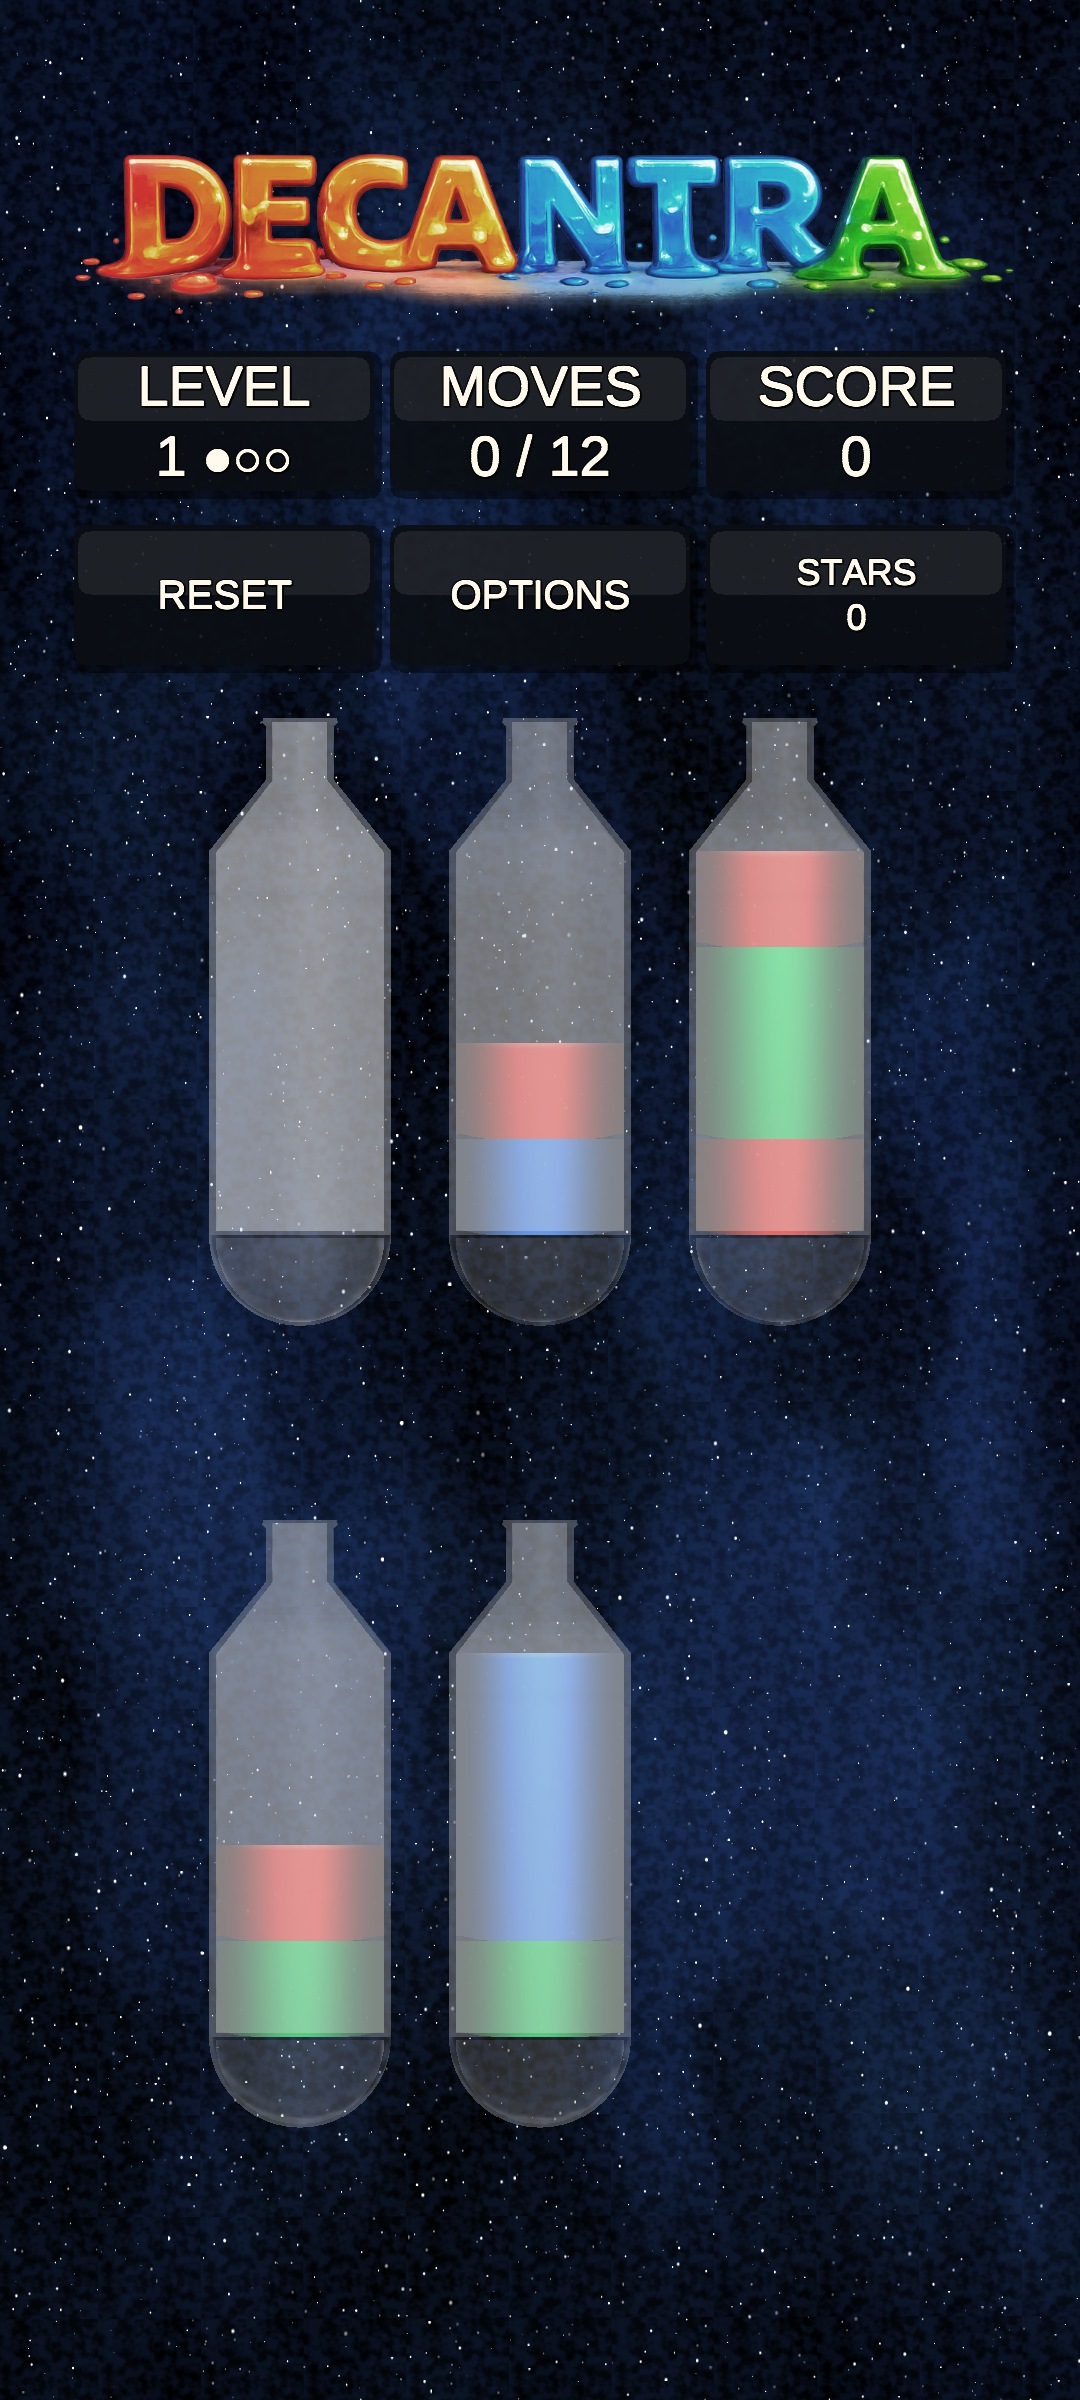
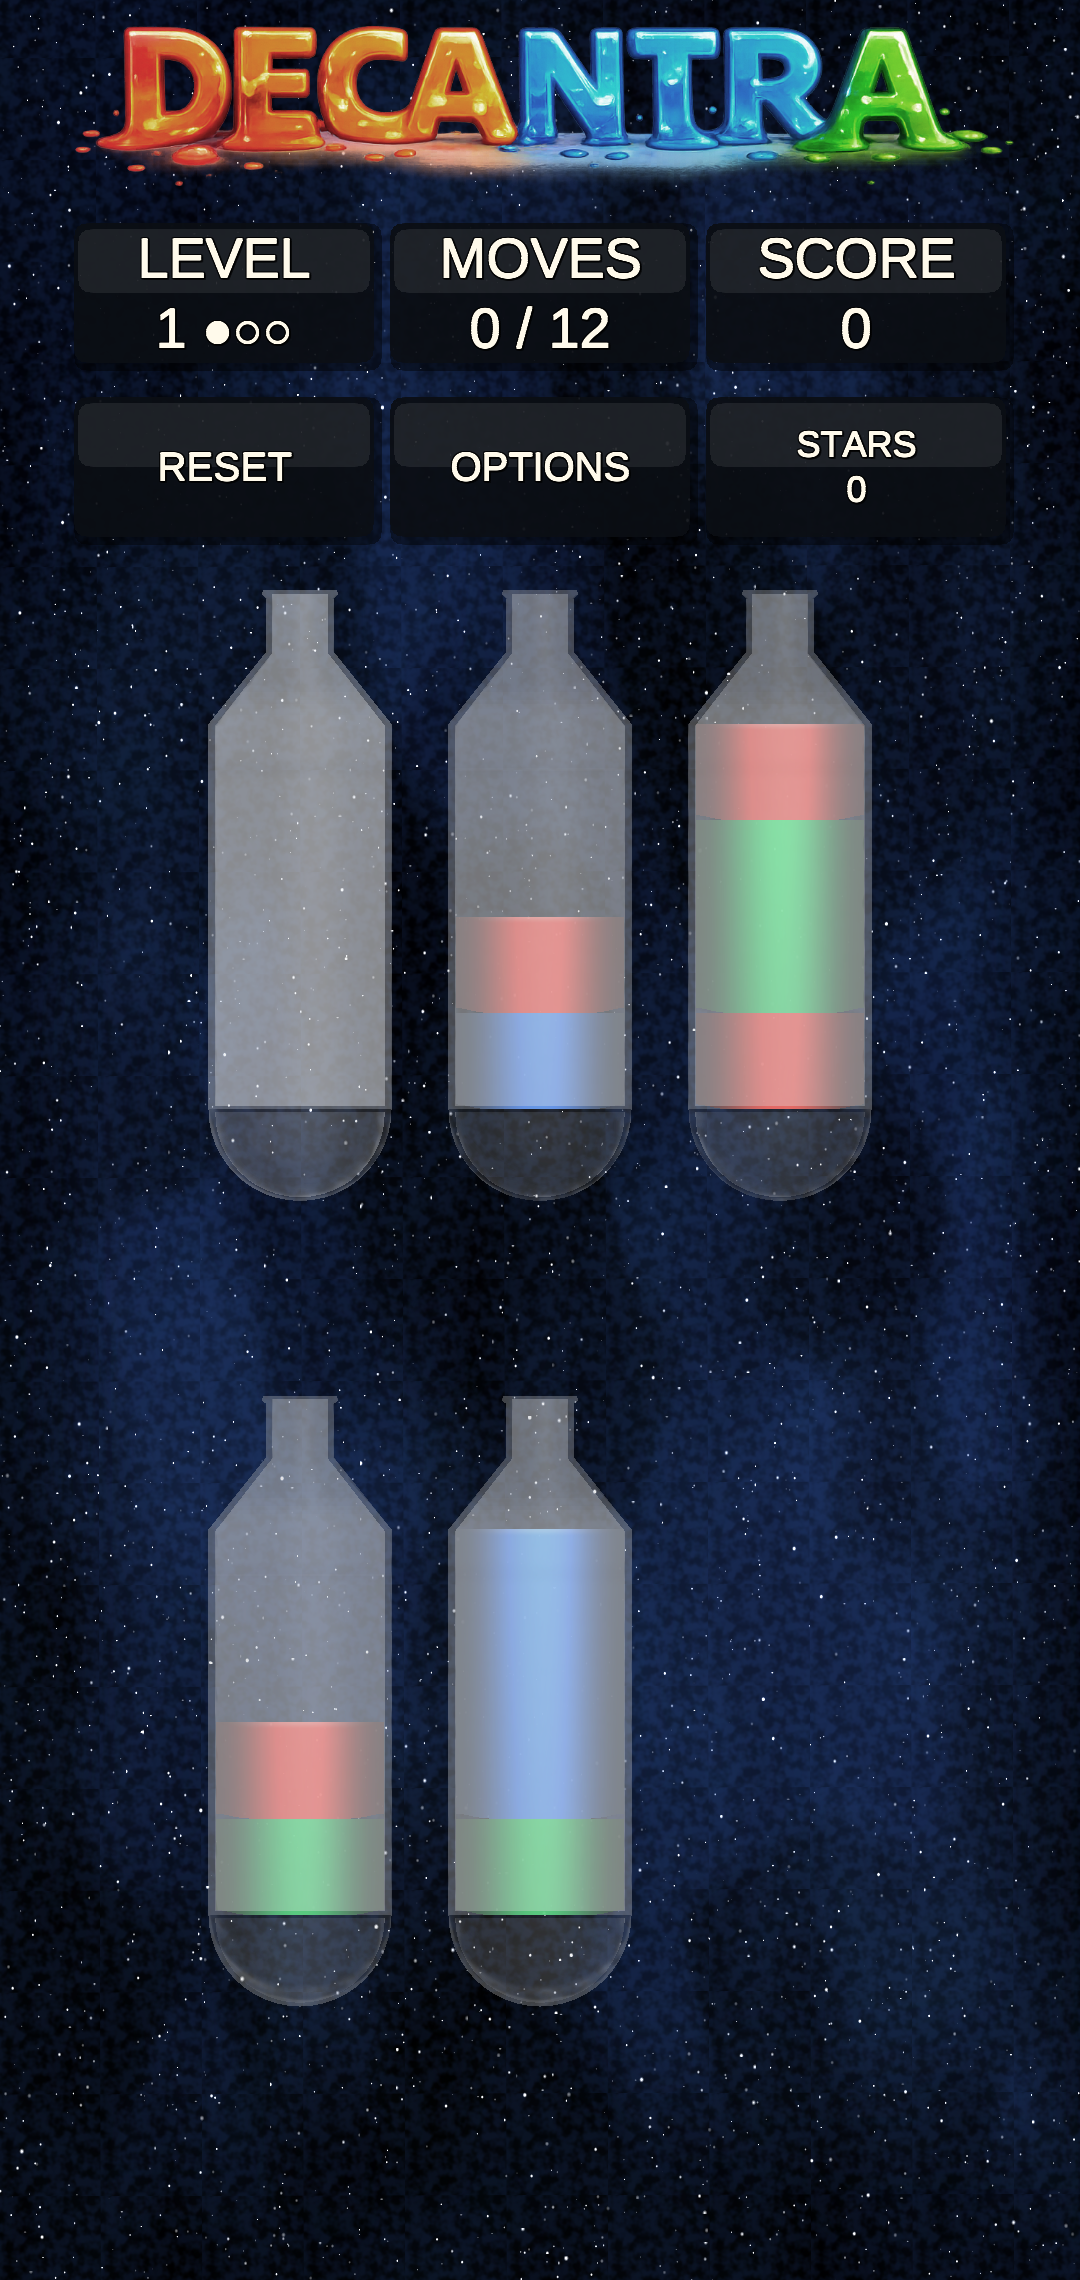
Compact three-row bottle layout

diff --git a/Assets/Decantra/Tests/PlayMode/AndroidLayoutInvariancePlayModeTests.cs b/Assets/Decantra/Tests/PlayMode/AndroidLayoutInvariancePlayModeTests.cs
@@ -150,20 +150,21 @@ namespace Decantra.Tests.PlayMode
             var baseGridSpacing = GetPrivateField<Vector2>(hudSafeLayout, "_baseGridSpacing");
             var baseGridPadding = GetPrivateField<RectOffset>(hudSafeLayout, "_baseGridPadding");
             var baseCellSize = GetPrivateField<Vector2>(hudSafeLayout, "_baseGridCellSize");
-            const float minimumEdgeGapPx = 24f;
+            const float minimumInnerGapPx = 10f;
 
-            Assert.GreaterOrEqual(bottleGridLayout.cellSize.y, baseCellSize.y - 1f,
-                $"3-row cell height shrank below the baseline cell size. baseline={baseCellSize.y:F2}, actual={bottleGridLayout.cellSize.y:F2}");
-            Assert.GreaterOrEqual(bottleGridLayout.spacing.y, minimumEdgeGapPx - 1f,
-                $"3-row spacing fell below the minimum edge gap. actual={bottleGridLayout.spacing.y:F2}");
-            Assert.LessOrEqual(bottleGridLayout.spacing.y, baseGridSpacing.y + 1f,
-                $"3-row spacing exceeded the baseline grid spacing. baseline={baseGridSpacing.y:F2}, actual={bottleGridLayout.spacing.y:F2}");
+            Assert.GreaterOrEqual(bottleGridLayout.cellSize.y, baseCellSize.y + 4f,
+                $"3-row cell height did not grow enough. baseline={baseCellSize.y:F2}, actual={bottleGridLayout.cellSize.y:F2}");
+            Assert.GreaterOrEqual(bottleGridLayout.spacing.y, minimumInnerGapPx - 1f,
+                $"3-row spacing fell below the minimum inner gap. actual={bottleGridLayout.spacing.y:F2}");
+            float requiredSpacingReduction = baseGridSpacing.y > minimumInnerGapPx + 8f ? 8f : 0f;
+            Assert.LessOrEqual(bottleGridLayout.spacing.y, baseGridSpacing.y - requiredSpacingReduction + 1f,
+                $"3-row spacing did not compact enough. baseline={baseGridSpacing.y:F2}, actual={bottleGridLayout.spacing.y:F2}, requiredReduction={requiredSpacingReduction:F2}");
             Assert.GreaterOrEqual(bottleGridLayout.padding.top, bottleGridLayout.padding.bottom,
                 $"3-row top padding should be at least as large as bottom padding. top={bottleGridLayout.padding.top}, bottom={bottleGridLayout.padding.bottom}");
             Assert.GreaterOrEqual(bottleGridLayout.padding.top, baseGridPadding.top,
                 $"3-row top padding should preserve or increase HUD clearance. baseline={baseGridPadding.top}, actual={bottleGridLayout.padding.top}");
-            Assert.LessOrEqual(bottleGridLayout.padding.bottom, baseGridPadding.bottom,
-                $"3-row bottom padding should not expand past the baseline gap. baseline={baseGridPadding.bottom}, actual={bottleGridLayout.padding.bottom}");
+            Assert.LessOrEqual(bottleGridLayout.padding.bottom, baseGridPadding.bottom - 4,
+                $"3-row bottom padding should shrink to reclaim vertical space. baseline={baseGridPadding.bottom}, actual={bottleGridLayout.padding.bottom}");
             Assert.AreEqual(Vector2.zero, bottleGrid.anchoredPosition,
                 "3-row bottle grid anchor shifted unexpectedly.");
 

diff --git a/Assets/Decantra/Presentation/View/HudSafeLayout.cs b/Assets/Decantra/Presentation/View/HudSafeLayout.cs
@@ -34,10 +34,12 @@ namespace Decantra.Presentation.View
         //   with idealGap = (available - rows*cellH)/(rows+1):
         //   => cellH <= (available - (rows+1)*MinClearancePx) / (rows + (rows+1)*BottleTopOverhang)
         private const float BottleTopOverhang = 0.1162f;
-        private const float ThreeRowInnerGapReductionPx = 24f;
-        private const float ThreeRowTopGapBiasPx = 12f;
-        private const float ThreeRowBottomGapReductionPx = 12f;
+        private const float ThreeRowInnerGapReductionPx = 56f;
+        private const float ThreeRowTopGapBiasPx = 6f;
+        private const float ThreeRowBottomGapReductionPx = 28f;
         private const float MinimumEdgeGapPx = MinClearancePx * 0.5f;
+        private const float MinimumThreeRowInnerGapPx = 10f;
+        private const float MinimumThreeRowBottomGapPx = 18f;
 #if UNITY_EDITOR || DEVELOPMENT_BUILD
         private const float LayoutAssertTolerance = 0.5f;
 #endif
@@ -210,14 +212,17 @@ namespace Decantra.Presentation.View
 
                         if (rows == GridRows)
                         {
-                            // Three-row boards look under-packed with a strict equal-gap model.
-                            // Tighten only the internal gaps and keep a little more space above
-                            // than below so the grid grows slightly and sits a touch lower.
-                            spacingY = Mathf.Max(MinimumEdgeGapPx, idealGap - ThreeRowInnerGapReductionPx);
-                            topPaddingY = Mathf.Max(spacingY, idealGap + ThreeRowTopGapBiasPx);
-                            bottomPaddingY = Mathf.Max(MinimumEdgeGapPx, idealGap - ThreeRowBottomGapReductionPx);
+                            // Three-row boards need denser internal packing than the edge
+                            // clearances used for the HUD and footer. Compress the inter-row
+                            // gaps much more aggressively than the outer gaps so the bottles
+                            // grow and the grid occupies the available space.
+                            spacingY = Mathf.Max(MinimumThreeRowInnerGapPx, idealGap - ThreeRowInnerGapReductionPx);
+                            bottomPaddingY = Mathf.Max(MinimumThreeRowBottomGapPx, idealGap - ThreeRowBottomGapReductionPx);
+                            topPaddingY = Mathf.Max(MinimumEdgeGapPx + ThreeRowTopGapBiasPx, idealGap + ThreeRowTopGapBiasPx);
 
                             float compactedCellHeight = (availableHeight - topPaddingY - bottomPaddingY - (rows - 1f) * spacingY) / rows;
+                            float maxCellHeightForHudClearance = (topPaddingY - MinClearancePx) / BottleTopOverhang;
+                            compactedCellHeight = Mathf.Min(compactedCellHeight, maxCellHeightForHudClearance);
                             cellHeight = Mathf.Max(cellHeight, compactedCellHeight);
                         }
 
